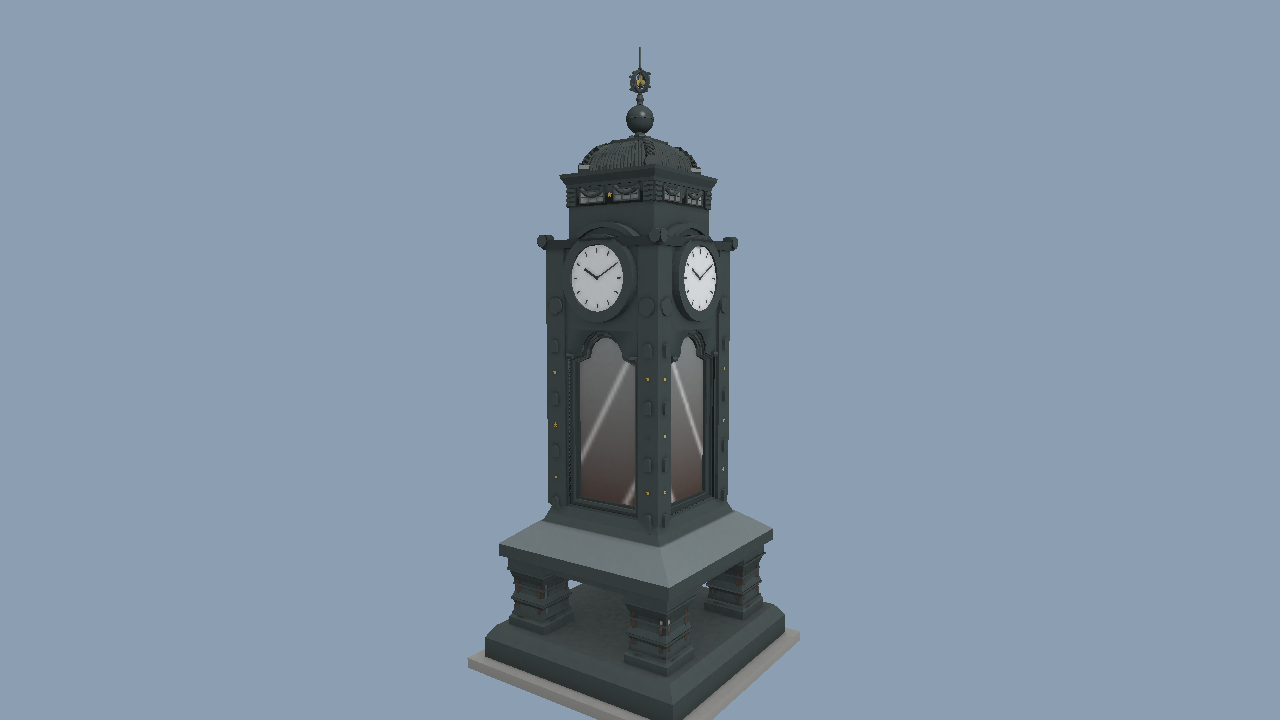
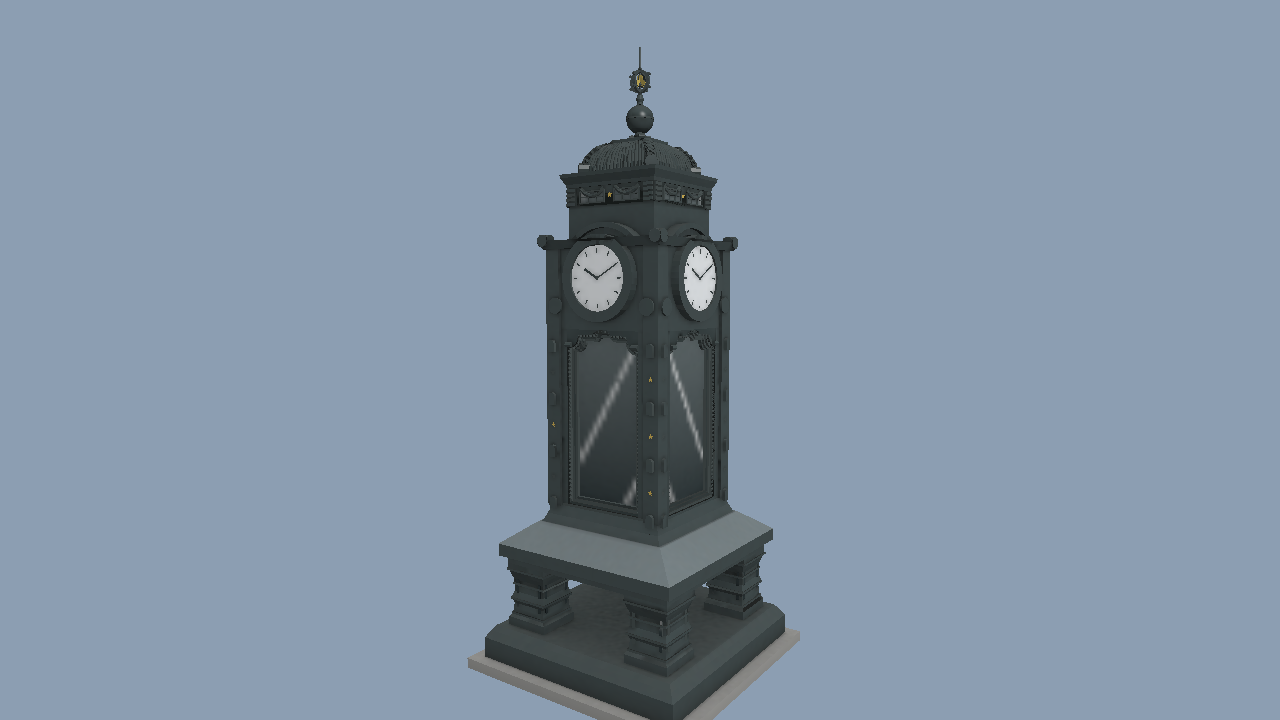
art: Kröpcke glass — rounded valance head with centre bump, beaded frame, cool dark glass from ref/01, wider panes, slimmer pilasters; tests: slice-based frame-steps test replaces a blind vertex test; skill lessons

Changed region(s): [[0.4375, 0.4583, 0.5625, 0.7028]]

diff --git a/RunnerGame/Art/tests/blender_test_kroepcke.py b/RunnerGame/Art/tests/blender_test_kroepcke.py
@@ -41,6 +41,35 @@ def world_edges(parts):
             yield vs[e.vertices[0]], vs[e.vertices[1]]
 
 
+class FrameStepsTest(unittest.TestCase):
+    """Relative test: more frame steps in the spec must give more distinct frame planes in the built model.
+    (An absolute plane count is fooled by the bead row and the glass recess.)"""
+
+    def planes(self, steps):
+        photo_lib.al.clear_scene()
+        spec = photo_lib.Spec(ASSET / "spec.json")
+        spec.dims["ornaments"]["value"]["showcase_frame"]["steps"] = steps
+        parts = load_build().build(spec)
+        sc, h = spec.d("showcase"), spec.d("body")["w"] / 2
+        ys = set()                       # slice every edge with the plane x = 0 (long rails have no vertex there)
+        for o in [o for objs in parts.values() for o in objs if o.type == 'MESH']:
+            mw = o.matrix_world
+            for e in o.data.edges:
+                a, b = (mw @ o.data.vertices[i].co for i in e.vertices)
+                if (a.x > 0) == (b.x > 0) or abs(a.x - b.x) < 1e-9:
+                    continue
+                s = -a.x / (b.x - a.x)
+                y, z = a.y + s * (b.y - a.y), a.z + s * (b.z - a.z)
+                if sc["z0"] - 0.10 < z < sc["z0"] + 0.06 and -h - 0.02 < y < -h + 0.12:
+                    ys.add(round(y, 3))
+        return len(ys)
+
+    def test_steps_change_the_frame(self):
+        spec_steps = photo_lib.Spec(ASSET / "spec.json").d("ornaments")["showcase_frame"]["steps"]
+        self.assertGreater(spec_steps, 1)
+        self.assertGreater(self.planes(spec_steps), self.planes(1))
+
+
 class KroepckeBuildTest(unittest.TestCase):
     @classmethod
     def setUpClass(cls):
@@ -103,13 +132,6 @@ class KroepckeBuildTest(unittest.TestCase):
         self.assertEqual(self.clusters(zs, 0.15), len(pf["z"][0::2]))
         gold = bpy.data.objects["clock_gold"].data
         self.assertEqual(len([v for v in gold.vertices if v.co.z < 4.0]), 10 * 4 * 2 * len(pf["z"][1::2]))
-
-    def test_showcase_frame_steps(self):
-        sc, steps = self.spec.d("showcase"), self.spec.d("ornaments")["showcase_frame"]["steps"]
-        h = self.spec.d("body")["w"] / 2
-        t = 0.1 * sc["w"]
-        planes = {round(v.y, 3) for v in self.verts if abs(v.x) < 0.41 and sc["z0"] - 0.01 < v.z < sc["z0"] + 0.10 and -h + 0.001 < v.y < -h + t - 0.0045}
-        self.assertGreaterEqual(len(planes), steps)
 
     def slice_points(self, z):
         pts = []
@@ -248,7 +270,7 @@ class KroepckeBuildTest(unittest.TestCase):
             if n.type == "MIX" and getattr(n, "data_type", "") == "RGBA" and not n.inputs[6].is_linked and not n.inputs[7].is_linked:
                 a, b = n.inputs[6].default_value, n.inputs[7].default_value
                 spread = max(spread, max(abs(a[i] - b[i]) for i in range(3)))
-        self.assertGreater(spread, 0.1, "glass gradient endpoints are (almost) the same colour")
+        self.assertGreater(spread, 0.05, "glass gradient endpoints are (almost) the same colour")
 
     def test_glass_pane_is_recessed(self):
         from mathutils import Vector
@@ -260,6 +282,39 @@ class KroepckeBuildTest(unittest.TestCase):
         hit, loc, *_ = bpy.context.scene.ray_cast(bpy.context.view_layer.depsgraph, Vector((0, -5, zc)), Vector((0, 1, 0)), distance=10)
         self.assertTrue(hit)
         self.assertGreaterEqual(loc.y - frame_inner, gl["recess"] - 1e-3)
+
+    def test_pane_head_has_concave_corners_and_bump(self):
+        sc = self.spec.d("showcase")
+        gl = self.spec.d("glass_look")
+        h = self.spec.d("body")["w"] / 2
+        stp = sc["frame_w"] / self.spec.d("ornaments")["showcase_frame"]["steps"]
+        w, z1 = sc["w"] - 2 * sc["frame_w"], sc["z1"] - sc["frame_w"]
+        yg = -h + self.spec.d("ornaments")["showcase_frame"]["steps"] * 0.25 * 0.1 * sc["w"] + gl["recess"]
+        glass = [v for o in meshes(self.parts) if o.data.materials and o.data.materials[0].name == "glass" for v in
+                 [o.matrix_world @ v.co for v in o.data.vertices]]
+        pane = [v for v in glass if abs(v.y - yg) < 1e-4 and v.z > 2.0 and abs(v.x) < w / 2 + 1e-3]
+
+        def top_at(x):                                # highest pane vertex near x, interpolating the outline
+            pts = sorted(pane, key=lambda v: v.x)
+            best = None
+            for a, b in zip(pts, pts[1:]):
+                if a.x <= x <= b.x and b.x > a.x:
+                    zz = max(a.z, b.z)
+                    best = zz if best is None else max(best, zz)
+            return best
+
+        near = max(v.z for v in pane if abs(abs(v.x) - (w / 2 - 0.05)) < 0.006)
+        centre = max(v.z for v in pane if abs(v.x) < 0.01)
+        self.assertGreaterEqual(centre - near, 0.03)
+        self.assertAlmostEqual(centre, z1, delta=0.01)
+
+    def test_frame_beads_exist(self):
+        sc, steps = self.spec.d("showcase"), self.spec.d("ornaments")["showcase_frame"]["steps"]
+        fb = self.spec.d("glass_look")["frame_beads"]
+        h = self.spec.d("body")["w"] / 2
+        y_apex = -h + 0.25 * 0.1 * sc["w"] - fb["r"]
+        apex = [v for v in self.verts if abs(v.y - y_apex) < 1e-4 and abs(v.x) < sc["w"] / 2 and sc["z0"] < v.z < sc["z1"]]
+        self.assertGreaterEqual(len(apex), 100)
 
     def test_pedestal_arch_is_open(self):
         # Rays through the middle of each side (x = 0 / y = 0) must pass the whole pedestal: faces, not vertices.

diff --git a/RunnerGame/Art/assets/kroepcke_uhr/build.py b/RunnerGame/Art/assets/kroepcke_uhr/build.py
@@ -197,13 +197,19 @@ def star(cx, cz, ro, ri):
              cz + (ro if i % 2 == 0 else ri) * math.sin(math.pi / 2 + i * math.pi / 5)) for i in range(10)]
 
 
-def shoulder_arch(w, z0, z1, seg=8):
-    """Outline of the showcase: rectangle with shoulders and a round head (CCW from the front).
-    Returns (outline, arc points left to right from angle 0 to 180 deg, shoulder height)."""
-    cz = z1 - 0.3 * w
-    zs = cz - 0.05
-    arc = [(0.3 * w * math.cos(math.pi * i / seg), cz + 0.3 * w * math.sin(math.pi * i / seg)) for i in range(seg + 1)]
-    return [(-w / 2, z0), (w / 2, z0), (w / 2, zs)] + arc + [(-w / 2, zs)], arc, zs
+def head_outline(w, z0, z1, look, seg=10):
+    """Pane outline (CCW from the front): straight sides, a CONCAVE quarter circle (radius 0.16 w) at each top corner,
+    a short straight run and a small convex rounded bump at the top centre.
+    Returns (outline, filler for the wall right of the centre above the outline, z where the corner arcs start)."""
+    R = 0.16 * w
+    bw, bh = look["centre_bump"]["w"] * w, look["centre_bump"]["h"] * w
+    zr = z1 - bh
+    arc_r = [(w / 2 - R * math.sin(math.pi / 2 * i / seg), zr - R * math.cos(math.pi / 2 * i / seg)) for i in range(seg + 1)]
+    bump = [(bw / 2 * math.cos(math.pi * i / seg), zr + bh * math.sin(math.pi * i / seg)) for i in range(seg + 1)]
+    arc_l = [(-x, z) for x, z in reversed(arc_r)]
+    outline = [(-w / 2, z0), (w / 2, z0)] + arc_r + bump + arc_l
+    filler = [(w / 2, zr - R), (w / 2, z1)] + list(reversed(bump[:seg // 2 + 1])) + list(reversed(arc_r))
+    return outline, filler, zr - R
 
 
 def ctube(acc, p0, p1, r, n=6):
@@ -517,17 +523,17 @@ def build(spec):
             ya, yb = sorted((sy * hp, sy * (hp - pw)))
             S["iron"].box(xa, xb, ya, yb, body["z0"], body["z1"])
 
-    poly, arc, zs = shoulder_arch(sw, z0s, z1s)
     sf = orn["showcase_frame"]
     stp = sc["frame_w"] / sf["steps"]
-    outlines = [shoulder_arch(sw - 2 * k * stp, z0s + k * stp, z1s - k * stp)[0] for k in range(sf["steps"] + 1)]
+    hs_ = gl["head_shape"]
+    outlines = [head_outline(sw - 2 * k * stp, z0s + k * stp, z1s - k * stp, hs_, hs_["segments"])[0] for k in range(sf["steps"] + 1)]
+    poly, right, zs = head_outline(sw, z0s, z1s, hs_, hs_["segments"])
     inner = outlines[-1]
     planes = [-h + (k + 1) * 0.25 * t0 for k in range(sf["steps"])] + [yg]
     for sx in (-1, 1):                               # wall beside the recess
         xa, xb = sorted((sx * sw / 2, sx * h))
         F["iron"].box(xa, xb, -h, -h + t, z0s, z1s)
-    right = [(sw / 2, zs), (sw / 2, z1s)] + list(reversed(arc[:len(arc) // 2 + 1]))   # shoulder filler beside the head
-    F["iron"].prism(right, -h, -h + t, back=False)
+    F["iron"].prism(right, -h, -h + t, back=False)   # wall between the curved head and the top of the recess
     F["iron"].prism([(-x, z) for x, z in reversed(right)], -h, -h + t, back=False)
 
     def reveal(outline, ya, yb):
@@ -543,6 +549,22 @@ def build(spec):
             j = (i + 1) % len(a)
             F["iron"].quad((a[i][0], planes[k], a[i][1]), (a[j][0], planes[k], a[j][1]),
                            (b[j][0], planes[k], b[j][1]), (b[i][0], planes[k], b[i][1]), (0, -1, 0))
+    fb = gl["frame_beads"]                           # row of small beads along the outer step of the frame
+    mid = [((p[0] + q[0]) / 2, (p[1] + q[1]) / 2) for p, q in zip(outlines[0], outlines[1])]
+    carry, br = 0.0, fb["r"]
+    for i in range(len(mid)):
+        (x0, z0), (x1, z1) = mid[i], mid[(i + 1) % len(mid)]
+        ln = math.hypot(x1 - x0, z1 - z0)
+        pos = fb["spacing"] - carry if carry else 0.0
+        while pos <= ln:
+            x, z = x0 + (x1 - x0) * pos / ln, z0 + (z1 - z0) * pos / ln
+            if z > z0s + stp:                        # none along the bottom edge
+                y0 = planes[0]
+                F["iron"].hexa([(x - br, y0, z - br), (x + br, y0, z - br), (x + br, y0, z + br), (x - br, y0, z + br)],
+                               [(x - br * 0.5, y0 - br, z - br * 0.5), (x + br * 0.5, y0 - br, z - br * 0.5),
+                                (x + br * 0.5, y0 - br, z + br * 0.5), (x - br * 0.5, y0 - br, z + br * 0.5)])
+            pos += fb["spacing"]
+        carry = ln - (pos - fb["spacing"])
     for sx in (-1, 1):                               # small scroll at each shoulder of the head
         cyl(F["iron"], (sx * (sw / 2 - 0.03), -h - 0.012, zs + 0.035), "x", 0.025, 0.07, n=8)
     F["glass"].decal(inner, yg)

diff --git a/.claude/skills/photo-to-model/SKILL.md b/.claude/skills/photo-to-model/SKILL.md
@@ -184,6 +184,8 @@ RunnerGame/Assets/Models/<Category>/<Asset>/   runtime OBJ + PNG + parts.json on
 | A photo cut off at the bottom: its extrapolated ground made the base far too short | Never extrapolate the ground; take base heights from a photo that shows the ground, scaled by a part both photos see (e.g. the glass case) |
 | Coarse grids gave wrong counts and shapes (8 legs, tall dome) | Zoom 1:1 on the part (crop ×2) BEFORE modelling it; count repeated parts on the zoom |
 | A mutation was placed after the variable it should change was read, so the test "passed" | After adding a `# MUTATION`, check the geometry actually changed (e.g. triangle count or a printed width) before trusting GREEN/RED |
+| Geometry tests that look for VERTICES were blind three times (closed gap between feet, frame steps, long rails have vertices only at their ends) | Test surfaces, not corners: slice edges with a plane, `scene.ray_cast`, or a relative test (build twice with a changed spec value, the measured result must change) |
+| Glass sampled where exhibits showed through came out brown; glass looked like a flat panel | Sample glass colours on plain reflection areas in ≥ 2 photos; fake reflection in the bake (vertical gradient + diagonal streaks + recessed pane), never photo pixels |
 | Camera fit always lands on a far telephoto for one photo | That photo's landmarks are inconsistent with the model — re-read them on a zoom (a 30 px misread corner cost 15 px RMS); try `lens_shift` + level for straight-on photos |
 
 ## 5. Pitfalls
